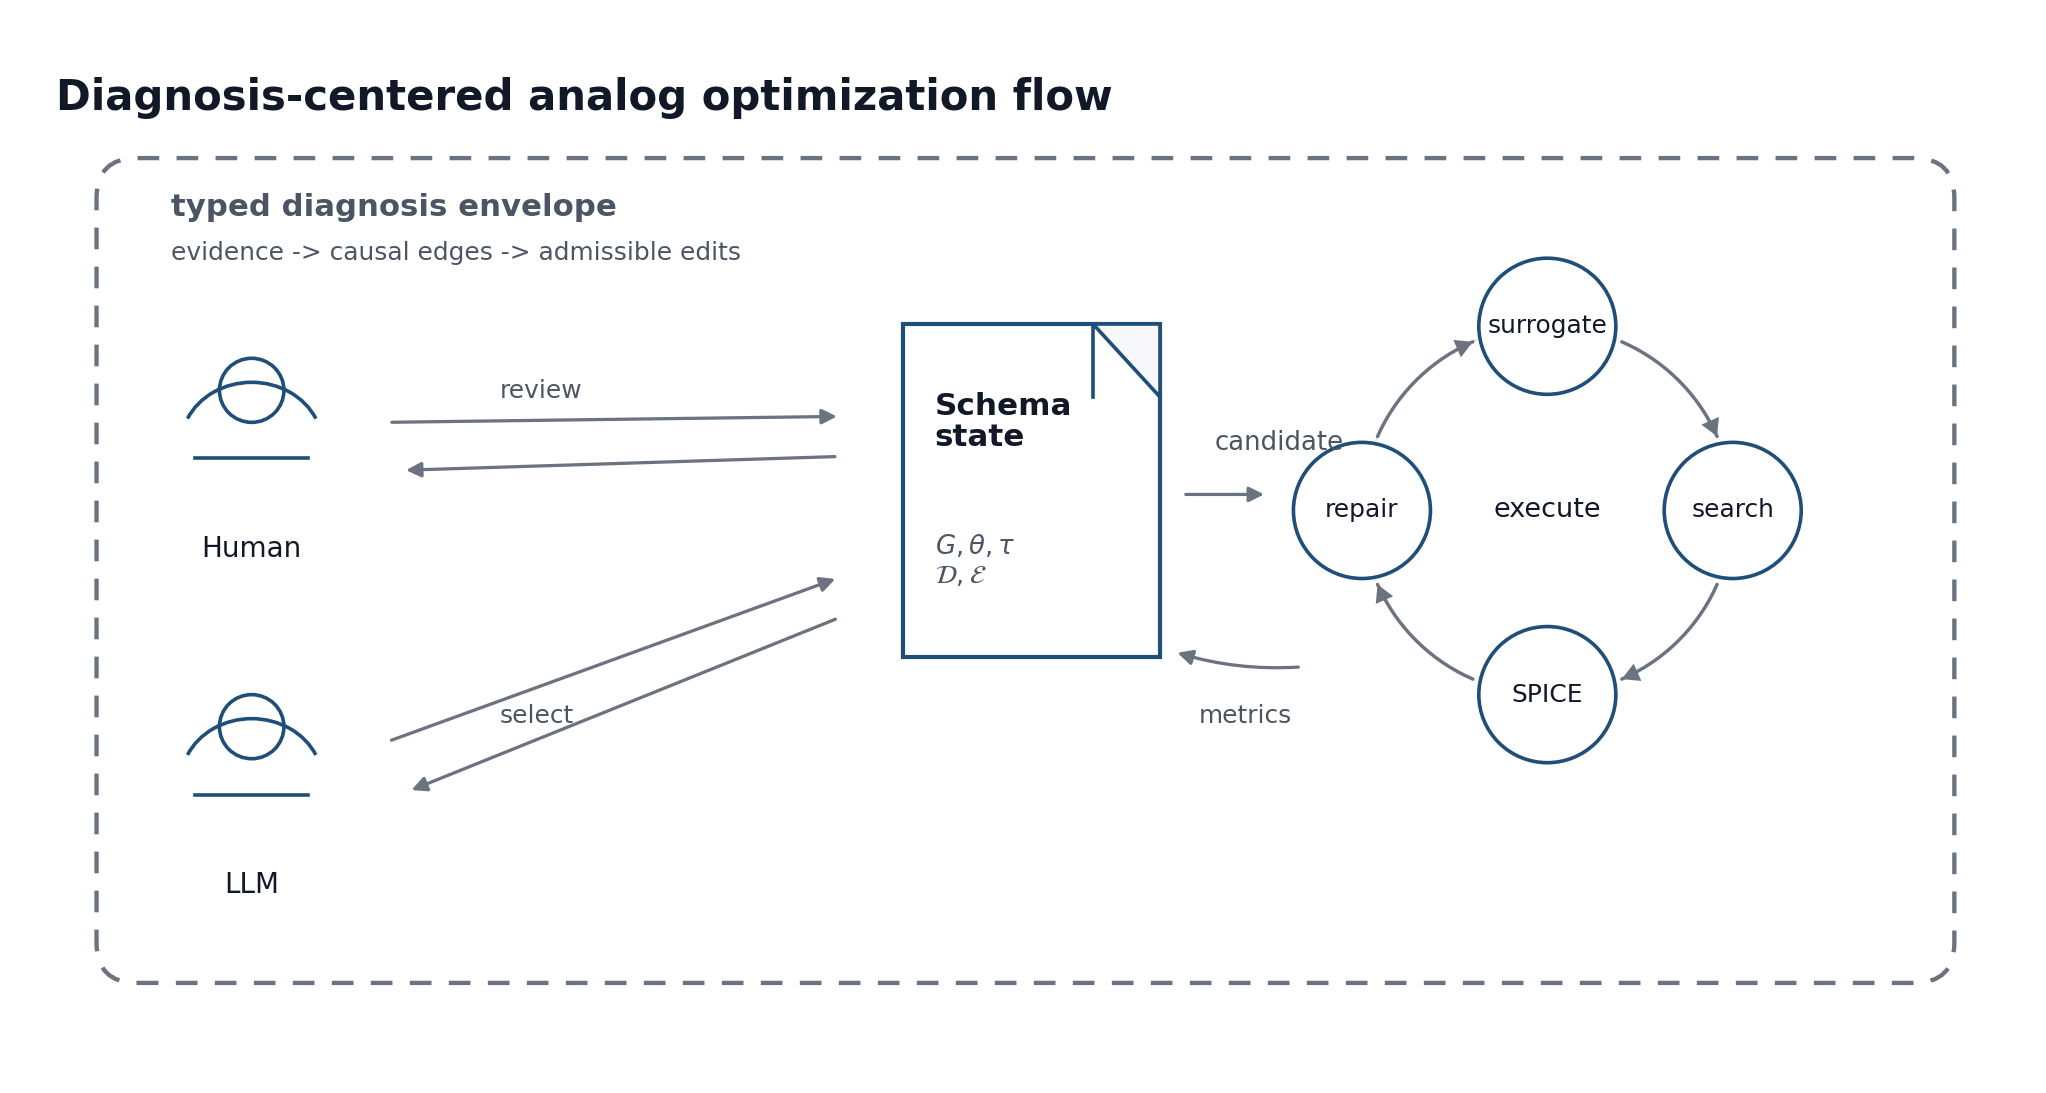
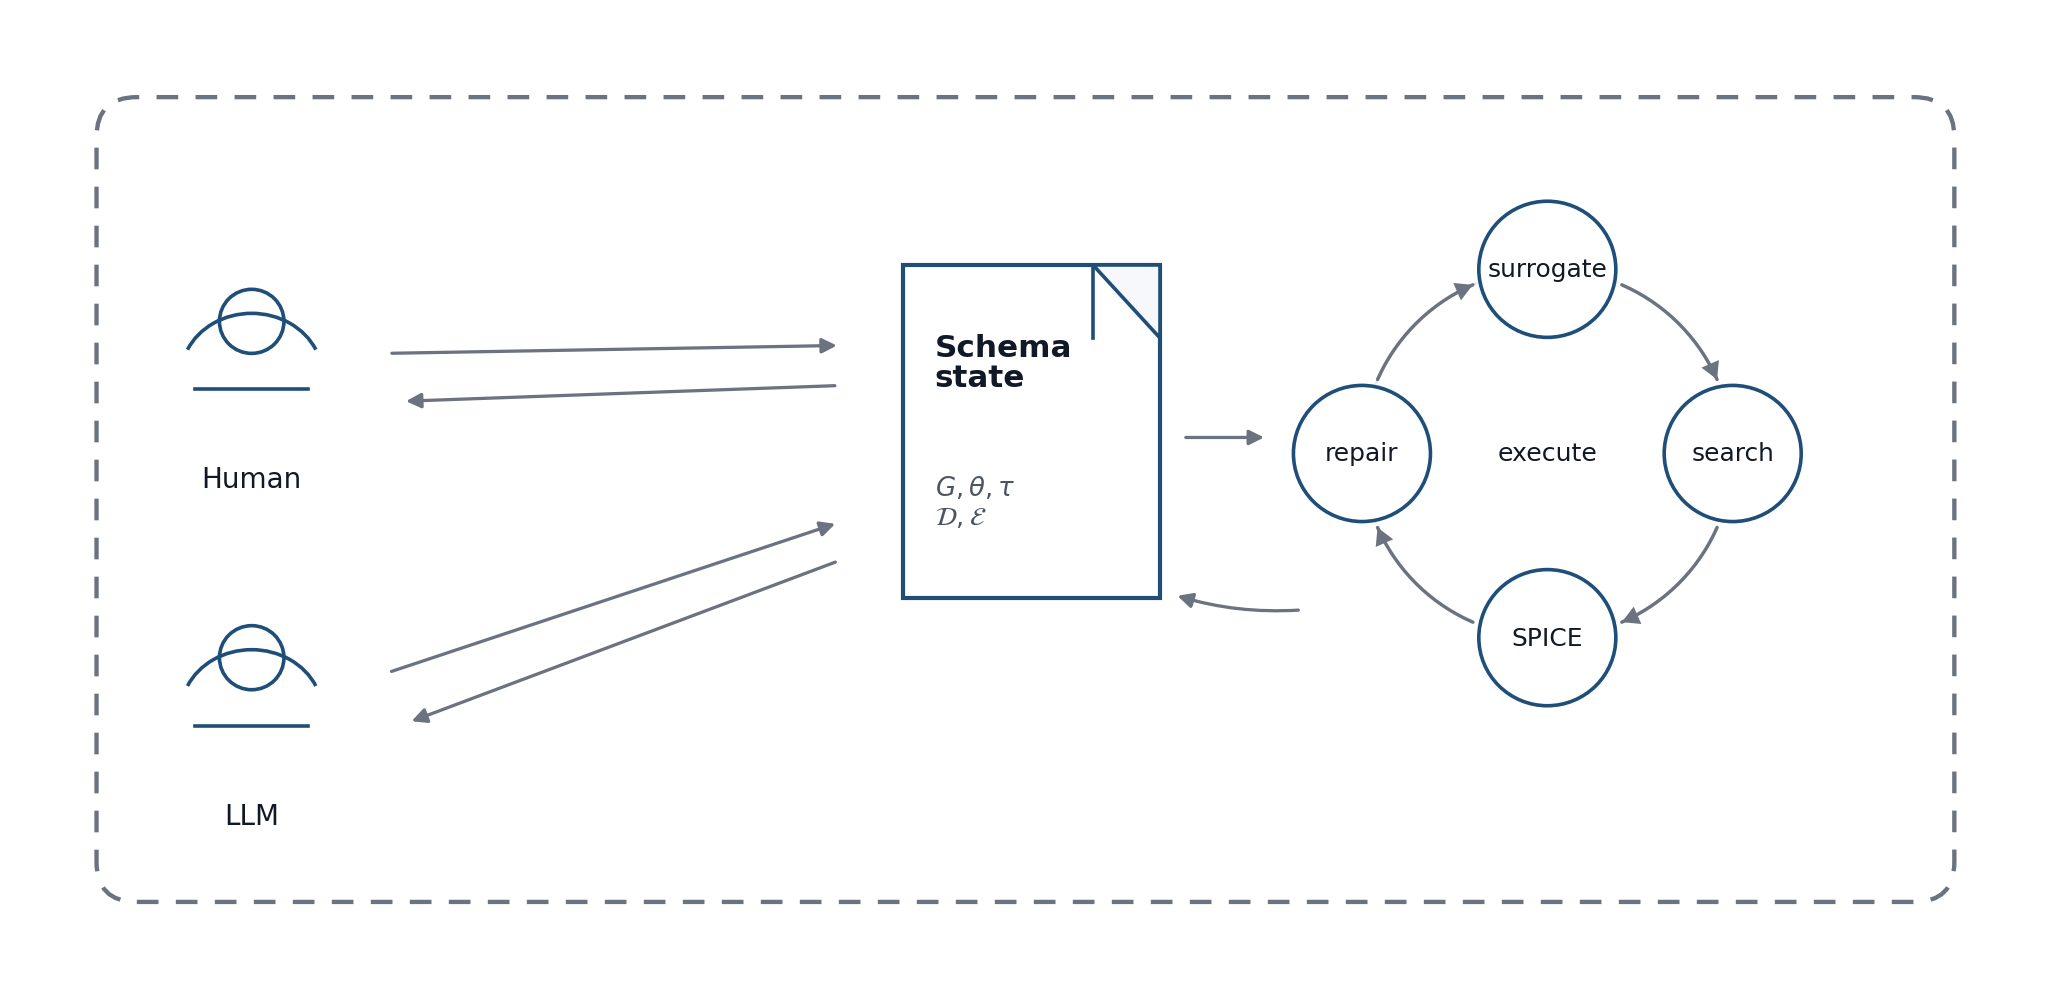
Simplify method figure text

diff --git a/scripts/plot_method_figures.py b/scripts/plot_method_figures.py
@@ -35,14 +35,13 @@ def main() -> None:
 
 
 def draw_architecture() -> plt.Figure:
-    fig, ax = base_fig(9.9, 5.2)
-    title(ax, "Diagnosis-centered analog optimization flow")
+    fig, ax = base_fig(9.9, 4.7)
 
     # Outer diagnosis loop.
     loop = FancyBboxPatch(
-        (0.45, 0.52),
+        (0.45, 0.42),
         9.02,
-        3.92,
+        3.82,
         boxstyle="round,pad=0.10,rounding_size=0.20",
         linewidth=1.2,
         edgecolor=LINE,
@@ -50,67 +49,44 @@ def draw_architecture() -> plt.Figure:
         linestyle=(0, (5, 4)),
     )
     ax.add_patch(loop)
-    ax.text(0.72, 4.25, "typed diagnosis envelope", fontsize=8.5, color=MUTED, weight="bold")
-    ax.text(
-        0.72,
-        4.03,
-        "evidence -> causal edges -> admissible edits",
-        fontsize=6.9,
-        color=MUTED,
-    )
 
-    draw_person(ax, 1.12, 3.14, "Human")
-    draw_person(ax, 1.12, 1.46, "LLM")
+    draw_person(ax, 1.12, 2.98, "Human")
+    draw_person(ax, 1.12, 1.30, "LLM")
 
-    draw_file(ax, 4.35, 2.05, 1.28, 1.66, "Schema\nstate", [r"$G,\theta,\tau$", r"$\mathcal{D},\mathcal{E}$"])
+    draw_file(ax, 4.35, 1.84, 1.28, 1.66, "Schema\nstate", [r"$G,\theta,\tau$", r"$\mathcal{D},\mathcal{E}$"])
 
-    cycle_center = (7.55, 2.78)
+    cycle_center = (7.55, 2.56)
     draw_cycle(ax, cycle_center, 0.92, ["surrogate", "search", "SPICE", "repair"])
-    ax.text(cycle_center[0], cycle_center[1], "execute", ha="center", va="center", fontsize=7.5, color=INK)
+    ax.text(cycle_center[0], cycle_center[1], "execute", ha="center", va="center", fontsize=7.0, color=INK)
 
-    arrow(ax, 1.78, 3.22, 4.06, 3.25)
-    arrow(ax, 4.05, 3.05, 1.85, 2.98)
-    arrow(ax, 1.78, 1.62, 4.05, 2.45)
-    arrow(ax, 4.05, 2.25, 1.88, 1.37)
-    arrow(ax, 5.72, 2.86, 6.18, 2.86)
-    arrow(ax, 6.35, 2.00, 5.68, 2.08, rad=-0.10)
-
-    ax.text(2.35, 3.34, "review", fontsize=6.9, color=MUTED)
-    ax.text(2.35, 1.72, "select", fontsize=6.9, color=MUTED)
-    ax.text(5.90, 3.08, "candidate", fontsize=7.2, color=MUTED)
-    ax.text(5.82, 1.72, "metrics", fontsize=6.9, color=MUTED)
+    arrow(ax, 1.78, 3.06, 4.06, 3.10)
+    arrow(ax, 4.05, 2.90, 1.85, 2.82)
+    arrow(ax, 1.78, 1.46, 4.05, 2.22)
+    arrow(ax, 4.05, 2.03, 1.88, 1.21)
+    arrow(ax, 5.72, 2.64, 6.18, 2.64)
+    arrow(ax, 6.35, 1.78, 5.68, 1.86, rad=-0.10)
     return fig
 
 
 def draw_schema_state() -> plt.Figure:
-    fig, ax = base_fig(9.8, 4.65)
-    title(ax, "Schema as the shared executable state")
-    draw_file(ax, 0.62, 1.42, 1.45, 1.95, "design\nstate", ["YAML", "schema edits", "evidence refs"])
+    fig, ax = base_fig(9.8, 3.7)
+    draw_file(ax, 0.62, 0.95, 1.45, 1.95, "design\nstate", ["YAML"])
 
     items = [
-        (2.60, 3.00, "Topology", r"$G$"),
-        (6.10, 3.00, "Variables", r"$\theta$"),
-        (2.60, 1.87, "Targets", r"$\tau,J$"),
-        (6.10, 1.87, "Dependencies", r"$\mathcal{D}$"),
-        (4.28, 0.76, "Evidence", r"$\mathcal{E}$"),
+        (2.60, 2.60, "Topology", r"$G$"),
+        (6.10, 2.60, "Variables", r"$\theta$"),
+        (2.60, 1.47, "Targets", r"$\tau,J$"),
+        (6.10, 1.47, "Dependencies", r"$\mathcal{D}$"),
+        (4.28, 0.36, "Evidence", r"$\mathcal{E}$"),
     ]
     for x, y, heading, body in items:
         small_panel(ax, x, y, 2.85, 0.78, heading, body)
-
-    ax.text(
-        0.62,
-        0.53,
-        "All applied edits are typed schema commands; detailed traces stay in JSON artifacts.",
-        fontsize=7.4,
-        color=MUTED,
-    )
     return fig
 
 
 def draw_optimization_loop() -> plt.Figure:
-    fig, ax = base_fig(9.6, 4.9)
-    title(ax, "Optimization and validation execution loop")
-    center = (4.72, 2.38)
+    fig, ax = base_fig(9.6, 4.25)
+    center = (4.72, 2.18)
     radius = 1.58
     ax.add_patch(
         Circle(
@@ -140,26 +116,17 @@ def draw_optimization_loop() -> plt.Figure:
     panel(
         ax,
         3.78,
-        1.64,
+        1.44,
         1.88,
         1.02,
         "Objective",
         [r"$\sum w_kv_k^2$", r"$+\,P_{\rm phys}$", "SPICE gate"],
     )
-    ax.text(
-        0.62,
-        0.32,
-        "Explicit repair handles OP balance, headroom, and MIM compensation;\naccepted diagnosis edits trigger short re-optimization.",
-        fontsize=7.2,
-        color=MUTED,
-        linespacing=1.12,
-    )
     return fig
 
 
 def draw_diagnosis_loop() -> plt.Figure:
-    fig, ax = base_fig(10.2, 4.75)
-    title(ax, "Causal diagnosis and evidence-gated action selection")
+    fig, ax = base_fig(10.2, 3.85)
 
     stages = [
         (0.35, "failed\nspecs"),
@@ -170,26 +137,26 @@ def draw_diagnosis_loop() -> plt.Figure:
         (8.35, "apply /\nskip note"),
     ]
     for i, (x, label) in enumerate(stages):
-        node(ax, x, 2.95, 1.05, 0.58, label)
+        node(ax, x, 2.62, 1.05, 0.58, label)
         if i < len(stages) - 1:
-            arrow(ax, x + 1.08, 3.24, stages[i + 1][0] - 0.05, 3.24)
+            arrow(ax, x + 1.08, 2.91, stages[i + 1][0] - 0.05, 2.91)
 
     panel(
         ax,
         0.66,
-        1.14,
+        0.82,
         4.18,
         1.16,
-        "Typed diagnosis",
+        "Diagnosis",
         [
             r"$e=(u,v,t,\rho,\omega,\epsilon)$",
-            "classes: gain, bias, poles,\nsymmetry, headroom, compensation",
+            "gain | bias | poles\nsymmetry | headroom",
         ],
     )
     panel(
         ax,
         5.34,
-        1.14,
+        0.82,
         4.18,
         1.16,
         "Admissibility",
@@ -198,13 +165,6 @@ def draw_diagnosis_loop() -> plt.Figure:
             r"$g_{\rm phys}(a)=1$ and",
             r"$selected(a)$ or $\Delta J(a)<0$",
         ],
-    )
-    ax.text(
-        0.66,
-        0.58,
-        "The LLM or human explains and selects; the executor applies only admissible schema edits.",
-        fontsize=7.4,
-        color=MUTED,
     )
     return fig
 
